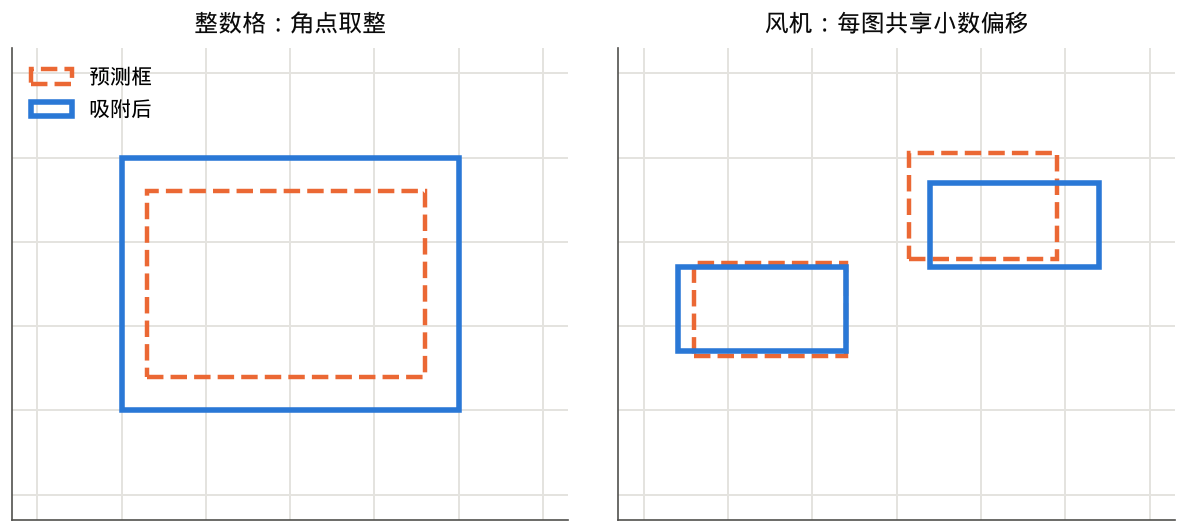
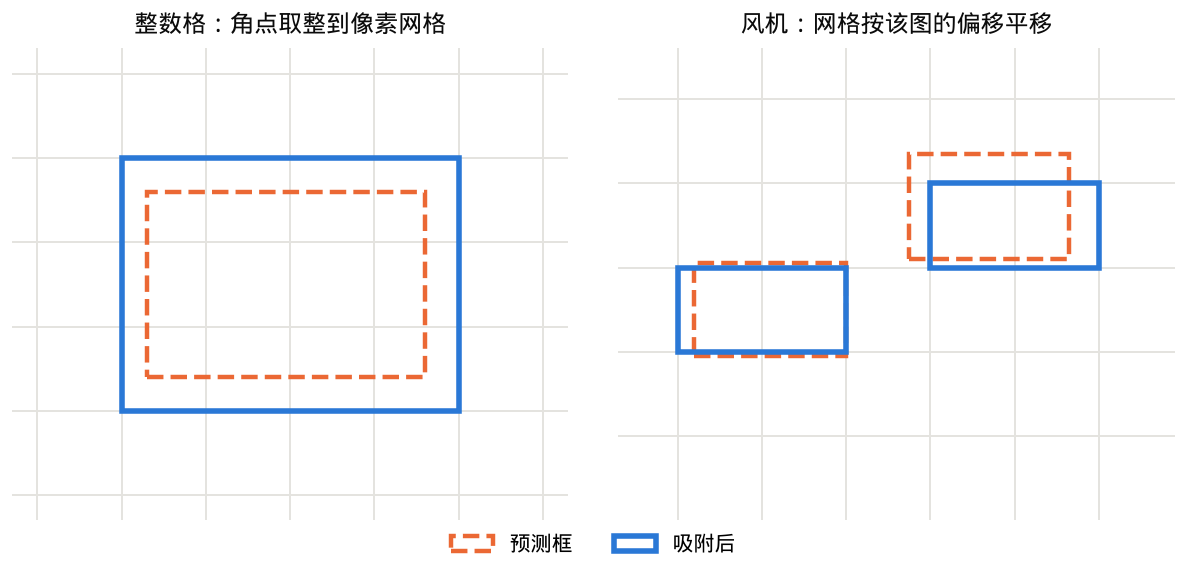
Final materials: fix report charts, add figure captions, refresh ablation results

diff --git a/backups/final/materials/report/gen_figures.py b/backups/final/materials/report/gen_figures.py
@@ -19,7 +19,7 @@ def T(lang, en, zh): return zh if lang == 'zh' else en
 def grid(ax, axis='y'): ax.grid(axis=axis, color=GRID, lw=.6); ax.set_axisbelow(True); ax.tick_params(length=0)
 def model(lang):
     t = lambda a, b: T(lang, a, b)
-    fig, ax = plt.subplots(figsize=(7.2, 3.9)); ax.set_xlim(0, 100); ax.set_ylim(0, 82); ax.axis('off')
+    fig, ax = plt.subplots(figsize=(7.2, 3.9)); ax.set_xlim(-1.5, 101.5); ax.set_ylim(1, 82); ax.axis('off')
     def box(x, y, w, h, s, c=TINT, fs=8.5):
         ax.add_patch(FancyBboxPatch((x, y), w, h, boxstyle='round,pad=0.2,rounding_size=1.0', fc=c, ec='#8a8984', lw=.7)); ax.text(x + w / 2, y + h / 2, s, ha='center', va='center', fontsize=fs, color=INK, linespacing=1.25)
     def arr(a, b): ax.annotate('', xy=b, xytext=a, arrowprops=dict(arrowstyle='-|>', lw=.9, color=MUT, mutation_scale=9, shrinkA=0, shrinkB=0))
@@ -27,16 +27,16 @@ def model(lang):
     box(20, 46, 30, 34, '', GRAY); ax.text(35, 72, t('DINOv3 ViT-B/16\nfrozen, 85.1 M', 'DINOv3 ViT-B/16\n冻结，85.1 M'), ha='center', va='center', fontsize=8.5, color=INK, linespacing=1.25); box(23, 49, 24, 14, t('LoRA r80 + norms\n11.8 M', 'LoRA r80 + 归一化层\n11.8 M'))
     box(20, 12, 30, 16, t('Spatial prior CNN\n64 channels, 0.21 M', '空间先验 CNN\n64 通道，0.21 M'))
     box(56, 34, 17, 26, t('ViTDet pyramid\nstrides 4-64\n5.56 M', 'ViTDet 金字塔\n步长 4-64\n5.56 M'), fs=8)
-    box(56, 66, 44, 12, t('Mean token: image class head', '平均 token：图像分类头'))
+    box(56, 66, 44, 12, t('Mean token: image class head, 0.01 M', '平均 token：图像分类头，0.01 M'))
     box(78, 34, 22, 26, t('RPN, 0.60 M\nanchors 6-181\nmax(IoU, NWD)', 'RPN，0.60 M\n锚框 6-181\nmax(IoU, NWD)'), fs=8)
     box(56, 4, 44, 18, t('3-stage Cascade, width 1536\nsize-aware IoU, 21.65 M', '三阶段 Cascade，宽度 1536\n尺寸感知 IoU，21.65 M'))
-    arr((14, 48), (20, 58)); arr((14, 40), (20, 24)); arr((50, 72), (56, 72)); arr((50, 54), (56, 50)); arr((50, 22), (56, 38)); arr((73, 47), (78, 47)); arr((89, 34), (89, 22))
+    arr((14, 48), (20, 58)); arr((14, 40), (20, 24)); arr((50, 72), (56, 72)); arr((50, 54), (56, 50)); arr((50, 22), (56, 38)); arr((73, 47), (78, 47)); arr((89, 34), (89, 22)); arr((64.5, 34), (64.5, 22))
     save(fig, 'model', lang)
 def official(lang):
-    pts = [('V2\n10-20', 38.23), ('F1\n10-21', 41.26), ('F2\n10-27', 44.84), ('SC2\n10-28', 51.86), ('BP7 cos160\n10-31', 52.78), ('cos200 e160\n11-01', 53.41), ('e180 + PP\n11-01', 54.83), (T(lang, 'avg x4', '平均 4 个') + '\n11-01', 55.41), (T(lang, 'avg x9, hard', '平均 9 个，硬融合') + '\n11-01', 56.41), (T(lang, 'class-agnostic', '类无关融合') + '\n11-01', 56.49)]
+    pts = [('V2\n10-20', 38.23), ('F1\n10-21', 41.26), ('F2\n10-27', 44.84), ('SC2\n10-28', 51.86), ('BP7 cos160\n10-31', 52.78), ('cos200 e160\n11-01', 53.41), ('e180 + PP\n11-01', 54.83), (T(lang, 'avg x4', '平均 4 个') + '\n11-01', 55.41), (T(lang, 'avg x9\nhard', '平均 9 个\n硬融合') + '\n11-01', 56.41), (T(lang, 'avg x9\nclass-agn.', '平均 9 个\n类无关') + '\n11-01', 56.49)]
     fig, ax = plt.subplots(figsize=(7.2, 3.1)); x = range(len(pts)); y = [p[1] for p in pts]
-    ax.plot(x, y, color=BLUE, lw=2, marker='o', ms=5, mec=SURF, mew=1); grid(ax); ax.set_xticks(list(x)); ax.set_xticklabels([p[0] for p in pts], fontsize=6.6); ax.set_ylabel(T(lang, 'Official val Δm', '官方验证集 Δm')); ax.set_ylim(35, 60)
-    for i in (0, 2, 3, len(pts) - 1): ax.annotate(f'{y[i]:.2f}', (i, y[i]), textcoords='offset points', xytext=(0, 8), ha='center', fontsize=8, color=INK)
+    ax.plot(x, y, color=BLUE, lw=2, marker='o', ms=5, mec=SURF, mew=1); grid(ax); ax.set_xticks(list(x)); ax.set_xticklabels([p[0] for p in pts], fontsize=7); ax.set_ylabel(T(lang, 'Official val Δm', '官方验证集 Δm')); ax.set_ylim(35, 60)
+    for i in (0, 2, 3, len(pts) - 1): ax.annotate(f'{y[i]:.2f}', (i, y[i]), textcoords='offset points', xytext=(-7, 8), ha='right' if i in (2, 3) else 'center', fontsize=8, color=INK)
     save(fig, 'official_progress', lang)
 def ladder(lang):
     runs = [json.load(open(f)) for f in sorted(glob.glob(str(RES / 'pp_ablation_*.json')))]
@@ -56,13 +56,18 @@ def loo(lang):
     names = {'noSP': ('no spatial prior', '去掉空间先验'), 'noSizeIoU': ('no size-aware IoU', '去掉尺寸感知 IoU'), 'noFlipBias': ('no flip bias', '去掉翻转偏置修正'), 'noNWD': ('no NWD matching', '去掉 NWD 匹配'), 'noCascade': ('no Cascade', '去掉 Cascade'), 'noSmallAnchors': ('reference anchors', '改回参考锚框'), 'noTrainNorms': ('LayerNorms frozen', '冻结 LayerNorm'), 'smallCapacity': ('LoRA r32, head 1024', 'LoRA r32，头 1024')}
     rows = []
     for k, n in names.items():
-        if k not in V: continue
-        ds = [V[k]['dm'][V[k]['seeds'].index(s)] - b['dm'][b['seeds'].index(s)] for s in V[k]['seeds'] if s in b['seeds']]
-        if ds: rows.append((n[1] if lang == 'zh' else n[0], st.mean(ds), st.stdev(ds) if len(ds) > 1 else 0, len(ds)))
-    if not rows: return
-    rows.sort(key=lambda r: r[1])
-    fig, ax = plt.subplots(figsize=(7.2, .55 * len(rows) + 1.2)); y = range(len(rows))
-    ax.barh(list(y), [r[1] for r in rows], height=.55, color=BLUE, xerr=[r[2] for r in rows], error_kw=dict(ecolor=MUT, lw=.8, capsize=2)); ax.axvline(0, color=MUT, lw=.7); grid(ax, 'x'); ax.set_yticks(list(y)); ax.set_yticklabels([r[0] for r in rows], fontsize=8)
+        ds = [V[k]['dm'][V[k]['seeds'].index(s)] - b['dm'][b['seeds'].index(s)] for s in V[k]['seeds'] if s in b['seeds']] if k in V else []
+        rows.append((n[1] if lang == 'zh' else n[0], st.mean(ds) if ds else None, st.stdev(ds) if len(ds) > 1 else 0, len(ds)))
+    rows.sort(key=lambda r: (r[1] is not None, r[1] if r[1] is not None else 0), reverse=True); rows = rows[::-1] if False else rows
+    fig, ax = plt.subplots(figsize=(7.2, 3.3)); y = list(range(len(rows)))[::-1]; done = [v[1] for v in rows if v[1] is not None]
+    lo = min(done + [-3]) - 1.1; hi = max(done + [1.5]) + .9
+    ax.axvspan(-.70, .70, color=GRAY, lw=0, zorder=0, label=T(lang, 'seed noise of C36, ±0.70', 'C36 的 seed 噪声，±0.70'))
+    for yy, r in zip(y, rows):
+        if r[1] is None: ax.text(lo + .08, yy, T(lang, 'TBD', '待定'), va='center', fontsize=8, color=MUT)
+        else:
+            ax.barh(yy, r[1], height=.55, color=BLUE, xerr=r[2] or None, error_kw=dict(ecolor=MUT, lw=.8, capsize=2))
+            ax.text(r[1] + (.08 if r[1] >= 0 else -.08) + (r[2] if r[1] >= 0 else -r[2]), yy, f"{r[1]:+.2f} (n={r[3]})", va='center', ha='left' if r[1] >= 0 else 'right', fontsize=7.5, color=INK)
+    ax.axvline(0, color=MUT, lw=.7); grid(ax, 'x'); ax.set_xlim(lo, hi); ax.set_ylim(-.7, len(rows) - .4); ax.set_yticks(y); ax.set_yticklabels([r[0] for r in rows], fontsize=8); ax.legend(frameon=False, fontsize=7.5, loc='upper right')
     ax.set_xlabel(T(lang, 'Δm of the variant minus the final recipe, 36-epoch runs on vallike (error bars ±1 std where n > 1)', '变体减最终配方的 Δm，36 轮，vallike（n > 1 时误差线为 ±1 标准差）'), fontsize=8)
     save(fig, 'loo', lang)
 def iou(lang):
@@ -89,14 +94,17 @@ def neardup(lang):
     fig, ax = plt.subplots(figsize=(4.6, 2.9)); x = range(4); w = .34
     ax.bar([i - w / 2 - .01 for i in x], a, width=w, color=BLUE, label=T(lang, 'local val', '本地验证集')); ax.bar([i + w / 2 + .01 for i in x], b, width=w, color=ORANGE, label=T(lang, 'local test', '本地测试集')); grid(ax); ax.set_xticks(list(x)); ax.set_xticklabels(lab); ax.legend(frameon=False, fontsize=8); ax.set_xlabel(T(lang, 'Cosine similarity to nearest training image', '与最近训练图的余弦相似度')); ax.set_ylabel('mAP'); save(fig, 'near_duplicates', lang)
 def snap(lang):
-    fig, axs = plt.subplots(1, 2, figsize=(6.2, 2.7)); tt = [T(lang, 'Integer cells: round corners', '整数格：角点取整'), T(lang, 'Wind turbines: shared offset per image', '风机：每图共享小数偏移')]
-    for ax, title in zip(axs, tt):
-        ax.set_xlim(-.3, 6.3); ax.set_ylim(-.3, 5.3); ax.set_xticks(range(7)); ax.set_yticks(range(6)); ax.grid(color=GRID, lw=.7); ax.set_axisbelow(True); ax.tick_params(length=0, labelbottom=False, labelleft=False); ax.set_title(title, fontsize=8.5, color=INK); ax.set_aspect('equal')
+    fig, axs = plt.subplots(1, 2, figsize=(6.2, 2.7)); tt = [T(lang, 'Integer cells: corners rounded to the pixel grid', '整数格：角点取整到像素网格'), T(lang, 'Wind turbines: grid shifted by the image offset', '风机：网格按该图的偏移平移')]
+    off = [(0, 0), (.4, .7)]
+    for ax, title, (ox, oy) in zip(axs, tt, off):
+        ax.set_xlim(-.3, 6.3); ax.set_ylim(-.3, 5.3); ax.set_xticks([i + ox for i in range(6 + (ox == 0))]); ax.set_yticks([i + oy for i in range(5 + (oy == 0))]); ax.grid(color=GRID, lw=.7); ax.set_axisbelow(True); ax.tick_params(length=0, labelbottom=False, labelleft=False); ax.set_title(title, fontsize=8.5, color=INK); ax.set_aspect('equal')
+        for sp in ax.spines.values(): sp.set_visible(False)
     axs[0].add_patch(Rectangle((1.3, 1.4), 3.3, 2.2, fill=False, ec=ORANGE, lw=1.6, ls='--', label=T(lang, 'prediction', '预测框'))); axs[0].add_patch(Rectangle((1, 1), 4, 3, fill=False, ec=BLUE, lw=2, label=T(lang, 'after snapping', '吸附后')))
-    for (x, y, w, h) in [(.6, 1.65, 1.8, 1.1), (3.15, 2.8, 1.75, 1.25)]:
+    for (x, y, w, h) in [(.6, 1.65, 1.8, 1.1), (3.15, 2.8, 1.9, 1.25)]:
         axs[1].add_patch(Rectangle((x, y), w, h, fill=False, ec=ORANGE, lw=1.6, ls='--'))
-        ax2x, ax2y = round(x - .4) + .4, round(y - .7) + .7; axs[1].add_patch(Rectangle((ax2x, ax2y), round(w), round(h), fill=False, ec=BLUE, lw=2))
-    axs[0].legend(frameon=False, fontsize=7.5, loc='upper left', bbox_to_anchor=(0, 1.0)); save(fig, 'lattice_snap', lang)
+        x1, y1, x2, y2 = round(x - .4) + .4, round(y - .7) + .7, round(x + w - .4) + .4, round(y + h - .7) + .7
+        axs[1].add_patch(Rectangle((x1, y1), x2 - x1, y2 - y1, fill=False, ec=BLUE, lw=2))
+    fig.legend(*axs[0].get_legend_handles_labels(), frameon=False, fontsize=7.5, loc='lower center', ncol=2, bbox_to_anchor=(.5, -.05)); save(fig, 'lattice_snap', lang)
 for lang in ('en', 'zh'):
     setup(lang)
     for f in (model, official, ladder, loo, iou, perclass, curve, sizes, neardup, snap): f(lang)

diff --git a/backups/final/materials/report/REPORT.md b/backups/final/materials/report/REPORT.md
@@ -37,6 +37,8 @@ Three properties of the data shaped the design.
 |---|---|
 | ![Share of boxes by side length](figures/box_sizes.png) | ![AP against IoU threshold on the local holdouts](figures/ap_vs_iou.png) |
 
+*Figure 1. Left: share of all 32,533 boxes by side √(wh) at the 512 px input; bins differ in width. Right: AP against IoU threshold on the two local holdouts (averaged weights of the 7,512-image run, class-agnostic fusion).*
+
 ## 2. Related work
 
 LoRA [Hu 2022] and MTLoRA [Agiza 2024] adapt frozen weights at low cost; we use a single wide LoRA. For tiny objects, NWD [Wang 2021] replaces IoU in assignment, Cascade R-CNN [Cai 2018] refines boxes, ViTDet [Li 2022] builds a pyramid from one ViT map, and ViT-Adapter [Chen 2023] adds a CNN spatial prior. Soft-NMS [Bodla 2017] and weight averaging along a trajectory [Izmailov 2018] are the two ideas behind our largest zero-cost gains. Δm is the usual multi-task summary [Maninis 2019; Vandenhende 2021].
@@ -45,7 +47,7 @@ LoRA [Hu 2022] and MTLoRA [Agiza 2024] adapt frozen weights at low cost; we use 
 
 ![The final model. Blue blocks train (39.87 M); gray is frozen. Each image passes through once at 512 × 512.](figures/model.png)
 
-*Figure 1. The final model. Blue blocks train (39.87 M); gray is frozen. Each image passes through once at 512 × 512.*
+*Figure 2. The final model. Blue blocks train (39.87 M); gray is frozen. Each image passes through once at 512 × 512.*
 
 | Part | What it is | Why |
 |---|---|---|
@@ -60,7 +62,7 @@ LoRA [Hu 2022] and MTLoRA [Agiza 2024] adapt frozen weights at low cost; we use 
 
 ![Training curve on vallike with the averaging window](figures/training_curve.png)
 
-*Figure 2. mAP on the held-out split during training (seed 0). The curve flattens in the low-LR tail, which is where averaging helps.*
+*Figure 3. mAP on the held-out split during training, with training-time post-processing (seed 0). The curve flattens in the low-LR tail, which is where averaging helps.*
 
 **Post-processing** uses only that one forward pass:
 
@@ -76,7 +78,7 @@ LoRA [Hu 2022] and MTLoRA [Agiza 2024] adapt frozen weights at low cost; we use 
 
 ![Schematic of lattice snapping](figures/lattice_snap.png)
 
-*Figure 3. Lattice snapping, schematic. Grid lines are original pixels; the right panel's lattice is shifted by one fractional offset shared within the image.*
+*Figure 4. Lattice snapping, schematic. Grid lines are original pixels on the left, and the image's shifted lattice on the right.*
 
 ## 4. Experiments
 
@@ -92,7 +94,7 @@ LoRA [Hu 2022] and MTLoRA [Agiza 2024] adapt frozen weights at low cost; we use 
 
 ![Official val Δm over the project](figures/official_progress.png)
 
-*Figure 4. Official val Δm at each milestone.*
+*Figure 5. Official val Δm at each milestone.*
 
 **Table 1.** Official scores (Phase 1 val, reference 93.31 / 26.13; the last row is test, reference 93.99 / 25.41; seed 0, 1 run each). V2 and F1 were scored on Codabench, the rest on the course leaderboard.
 
@@ -124,7 +126,7 @@ We finished Phase 1 third of nine, behind Team 9 (67.16) and Team 6 (65.85). Tea
 |---|---|---|---|---|---|
 | Final recipe | 39.87 | 1 | 45.67 | 96.71 | — |
 | no spatial prior | 39.66 | 1 | 45.85 | 95.62 | -0.25 |
-| no size-aware IoU | 39.87 | TBD | | | |
+| no size-aware IoU | 39.87 | 1 | 44.17 | 96.11 | -3.20 |
 | no flip bias (shift -0.4) | 39.87 | TBD | | | |
 | no NWD matching | 39.87 | TBD | | | |
 | no Cascade (Faster R-CNN) | 32.16 | TBD | | | |
@@ -134,7 +136,7 @@ We finished Phase 1 third of nine, behind Team 9 (67.16) and Team 6 (65.85). Tea
 
 ![Leave-one-out change in Δm](figures/loo.png)
 
-*Figure 5. Change in Δm when one part is removed (finished runs only; the rest are TBD).*
+*Figure 6. Change in Δm when one part is removed. The gray band is the seed noise of the smaller C36 configuration, shown for scale.*
 
 **Earlier ladder.** On the 7,512 split, raw local Δm against our own reference run rose: DINOv3 instead of ImageNet-21k +8.1; LoRA r32 on all linear layers plus norms +18.1; Cascade +21.0; NWD with small anchors +19.7 (both 24 epochs); both at 36 epochs +31.3; at 48 epochs +38.6. Against the C36 mean of 37 seeds with final post-processing, size-aware IoU added +1.69 (z = 2.4; wind turbine AP +6.5; AP below 8 px from 8.2 to 12.9), flip bias +1.23 (z = 1.75), and both +2.26 (z = 3.2). LoRA r80 with head 1536 added +5.92 on top. These screens are single-seed.
 
@@ -144,7 +146,7 @@ We finished Phase 1 third of nine, behind Team 9 (67.16) and Team 6 (65.85). Tea
 
 ![Gain of each post-processing step](figures/pp_ladder.png)
 
-*Figure 6. Δm gain of each cumulative step on `vallike`.*
+*Figure 7. Δm gain of each cumulative step on `vallike`.*
 
 **Table 3.** Cumulative post-processing and averaging on full-length runs (n=1 seed; `trainvl` → `vallike`). Step gains are paired on one seed's weights; Δm uses the val reference, on a local split, so its absolute level is not comparable to the board.
 
@@ -195,6 +197,8 @@ The context result is the most instructive: +2.26 local Δm on one holdout, −0
 | Near-duplicates | Per-class AP |
 |---|---|
 | ![mAP by similarity to the nearest training image](figures/near_duplicates.png) | ![Per-class AP of the final recipe](figures/per_class_ap.png) |
+
+*Figure 8. Left: mAP by similarity to the nearest training image on the local holdouts (same weights as Figure 1). Right: per-class AP of the final recipe on `vallike`, seed 0.*
 
 ## 5. Efficiency and required disclosures
 

diff --git a/backups/final/materials/report/src/REPORT.template.md b/backups/final/materials/report/src/REPORT.template.md
@@ -37,6 +37,8 @@ Three properties of the data shaped the design.
 |---|---|
 | ![Share of boxes by side length](figures/box_sizes.png) | ![AP against IoU threshold on the local holdouts](figures/ap_vs_iou.png) |
 
+*Figure 1. Left: share of all 32,533 boxes by side √(wh) at the 512 px input; bins differ in width. Right: AP against IoU threshold on the two local holdouts (averaged weights of the 7,512-image run, class-agnostic fusion).*
+
 ## 2. Related work
 
 LoRA [Hu 2022] and MTLoRA [Agiza 2024] adapt frozen weights at low cost; we use a single wide LoRA. For tiny objects, NWD [Wang 2021] replaces IoU in assignment, Cascade R-CNN [Cai 2018] refines boxes, ViTDet [Li 2022] builds a pyramid from one ViT map, and ViT-Adapter [Chen 2023] adds a CNN spatial prior. Soft-NMS [Bodla 2017] and weight averaging along a trajectory [Izmailov 2018] are the two ideas behind our largest zero-cost gains. Δm is the usual multi-task summary [Maninis 2019; Vandenhende 2021].
@@ -45,7 +47,7 @@ LoRA [Hu 2022] and MTLoRA [Agiza 2024] adapt frozen weights at low cost; we use 
 
 ![The final model. Blue blocks train (39.87 M); gray is frozen. Each image passes through once at 512 × 512.](figures/model.png)
 
-*Figure 1. The final model. Blue blocks train (39.87 M); gray is frozen. Each image passes through once at 512 × 512.*
+*Figure 2. The final model. Blue blocks train (39.87 M); gray is frozen. Each image passes through once at 512 × 512.*
 
 | Part | What it is | Why |
 |---|---|---|
@@ -60,7 +62,7 @@ LoRA [Hu 2022] and MTLoRA [Agiza 2024] adapt frozen weights at low cost; we use 
 
 ![Training curve on vallike with the averaging window](figures/training_curve.png)
 
-*Figure 2. mAP on the held-out split during training (seed 0). The curve flattens in the low-LR tail, which is where averaging helps.*
+*Figure 3. mAP on the held-out split during training, with training-time post-processing (seed 0). The curve flattens in the low-LR tail, which is where averaging helps.*
 
 **Post-processing** uses only that one forward pass:
 
@@ -76,7 +78,7 @@ LoRA [Hu 2022] and MTLoRA [Agiza 2024] adapt frozen weights at low cost; we use 
 
 ![Schematic of lattice snapping](figures/lattice_snap.png)
 
-*Figure 3. Lattice snapping, schematic. Grid lines are original pixels; the right panel's lattice is shifted by one fractional offset shared within the image.*
+*Figure 4. Lattice snapping, schematic. Grid lines are original pixels on the left, and the image's shifted lattice on the right.*
 
 ## 4. Experiments
 
@@ -92,7 +94,7 @@ LoRA [Hu 2022] and MTLoRA [Agiza 2024] adapt frozen weights at low cost; we use 
 
 ![Official val Δm over the project](figures/official_progress.png)
 
-*Figure 4. Official val Δm at each milestone.*
+*Figure 5. Official val Δm at each milestone.*
 
 <!--TABLE:official-->
 
@@ -108,7 +110,7 @@ We finished Phase 1 third of nine, behind Team 9 (67.16) and Team 6 (65.85). Tea
 
 ![Leave-one-out change in Δm](figures/loo.png)
 
-*Figure 5. Change in Δm when one part is removed (finished runs only; the rest are TBD).*
+*Figure 6. Change in Δm when one part is removed. The gray band is the seed noise of the smaller C36 configuration, shown for scale.*
 
 **Earlier ladder.** On the 7,512 split, raw local Δm against our own reference run rose: DINOv3 instead of ImageNet-21k +8.1; LoRA r32 on all linear layers plus norms +18.1; Cascade +21.0; NWD with small anchors +19.7 (both 24 epochs); both at 36 epochs +31.3; at 48 epochs +38.6. Against the C36 mean of 37 seeds with final post-processing, size-aware IoU added +1.69 (z = 2.4; wind turbine AP +6.5; AP below 8 px from 8.2 to 12.9), flip bias +1.23 (z = 1.75), and both +2.26 (z = 3.2). LoRA r80 with head 1536 added +5.92 on top. These screens are single-seed.
 
@@ -118,7 +120,7 @@ We finished Phase 1 third of nine, behind Team 9 (67.16) and Team 6 (65.85). Tea
 
 ![Gain of each post-processing step](figures/pp_ladder.png)
 
-*Figure 6. Δm gain of each cumulative step on `vallike`.*
+*Figure 7. Δm gain of each cumulative step on `vallike`.*
 
 <!--TABLE:pp-->
 
@@ -139,6 +141,8 @@ The context result is the most instructive: +2.26 local Δm on one holdout, −0
 | Near-duplicates | Per-class AP |
 |---|---|
 | ![mAP by similarity to the nearest training image](figures/near_duplicates.png) | ![Per-class AP of the final recipe](figures/per_class_ap.png) |
+
+*Figure 8. Left: mAP by similarity to the nearest training image on the local holdouts (same weights as Figure 1). Right: per-class AP of the final recipe on `vallike`, seed 0.*
 
 ## 5. Efficiency and required disclosures
 
